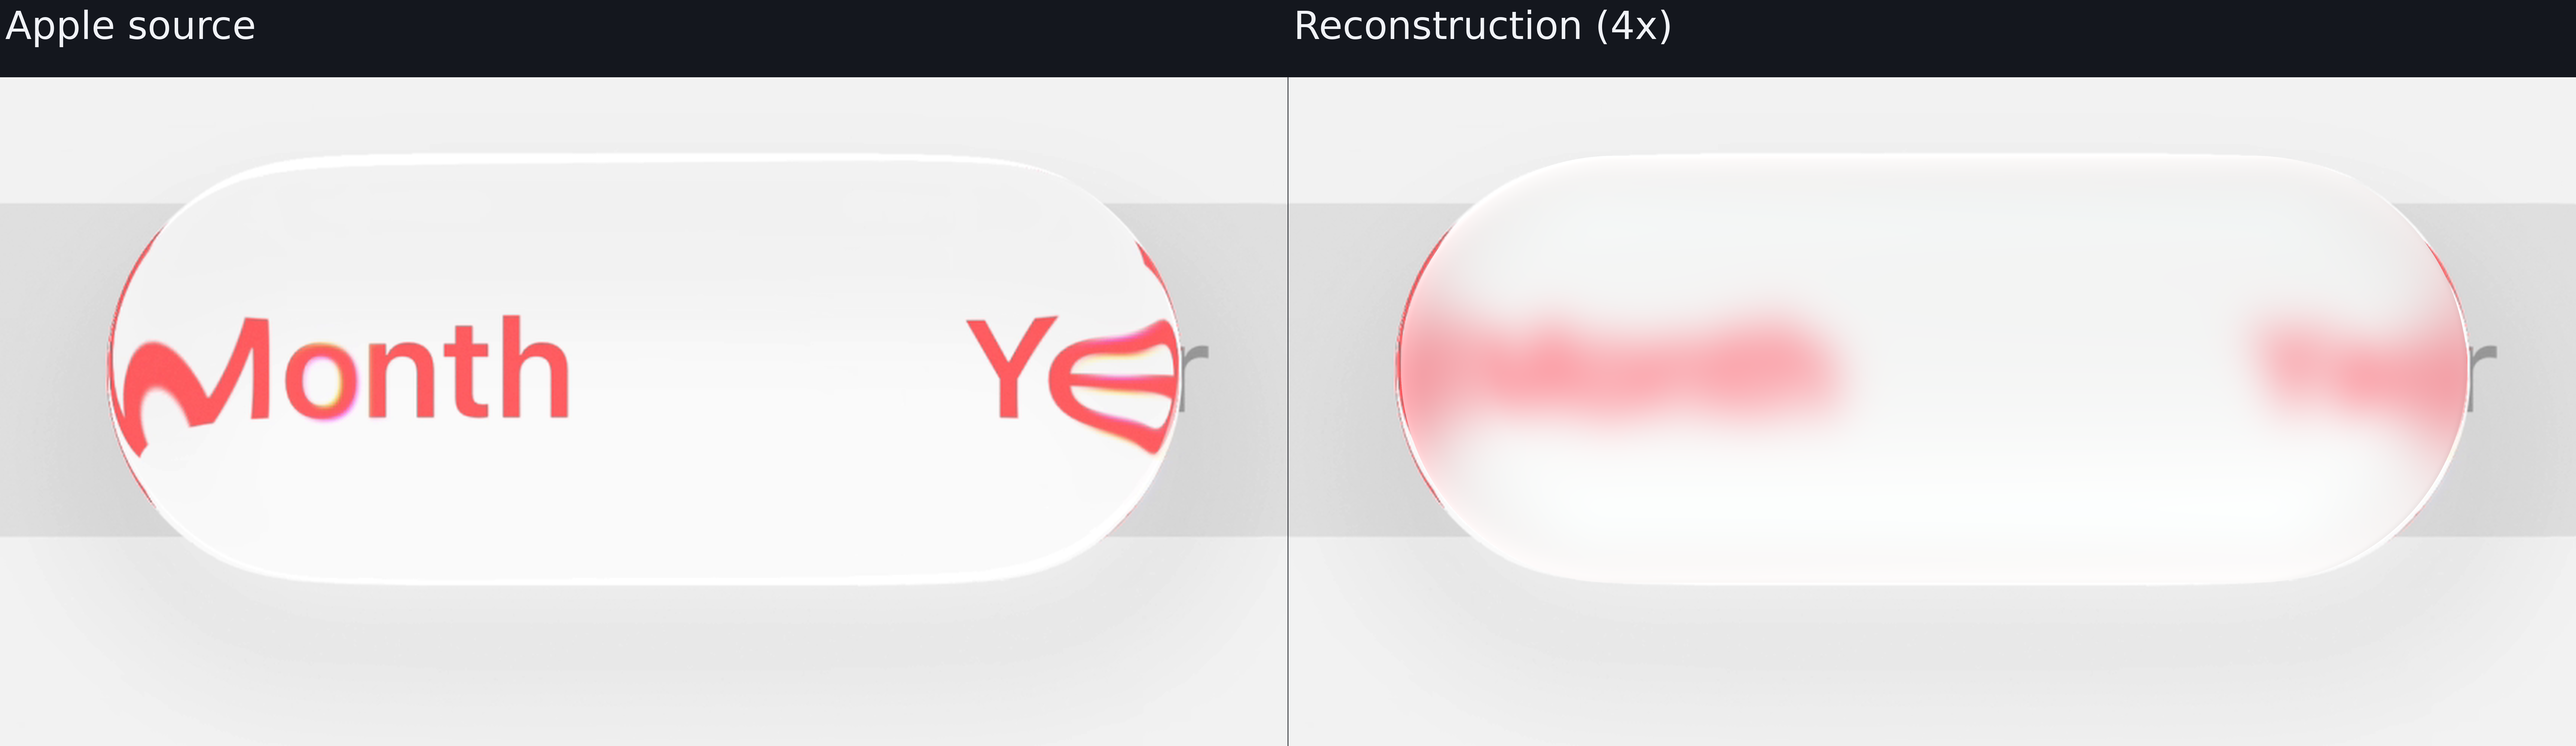
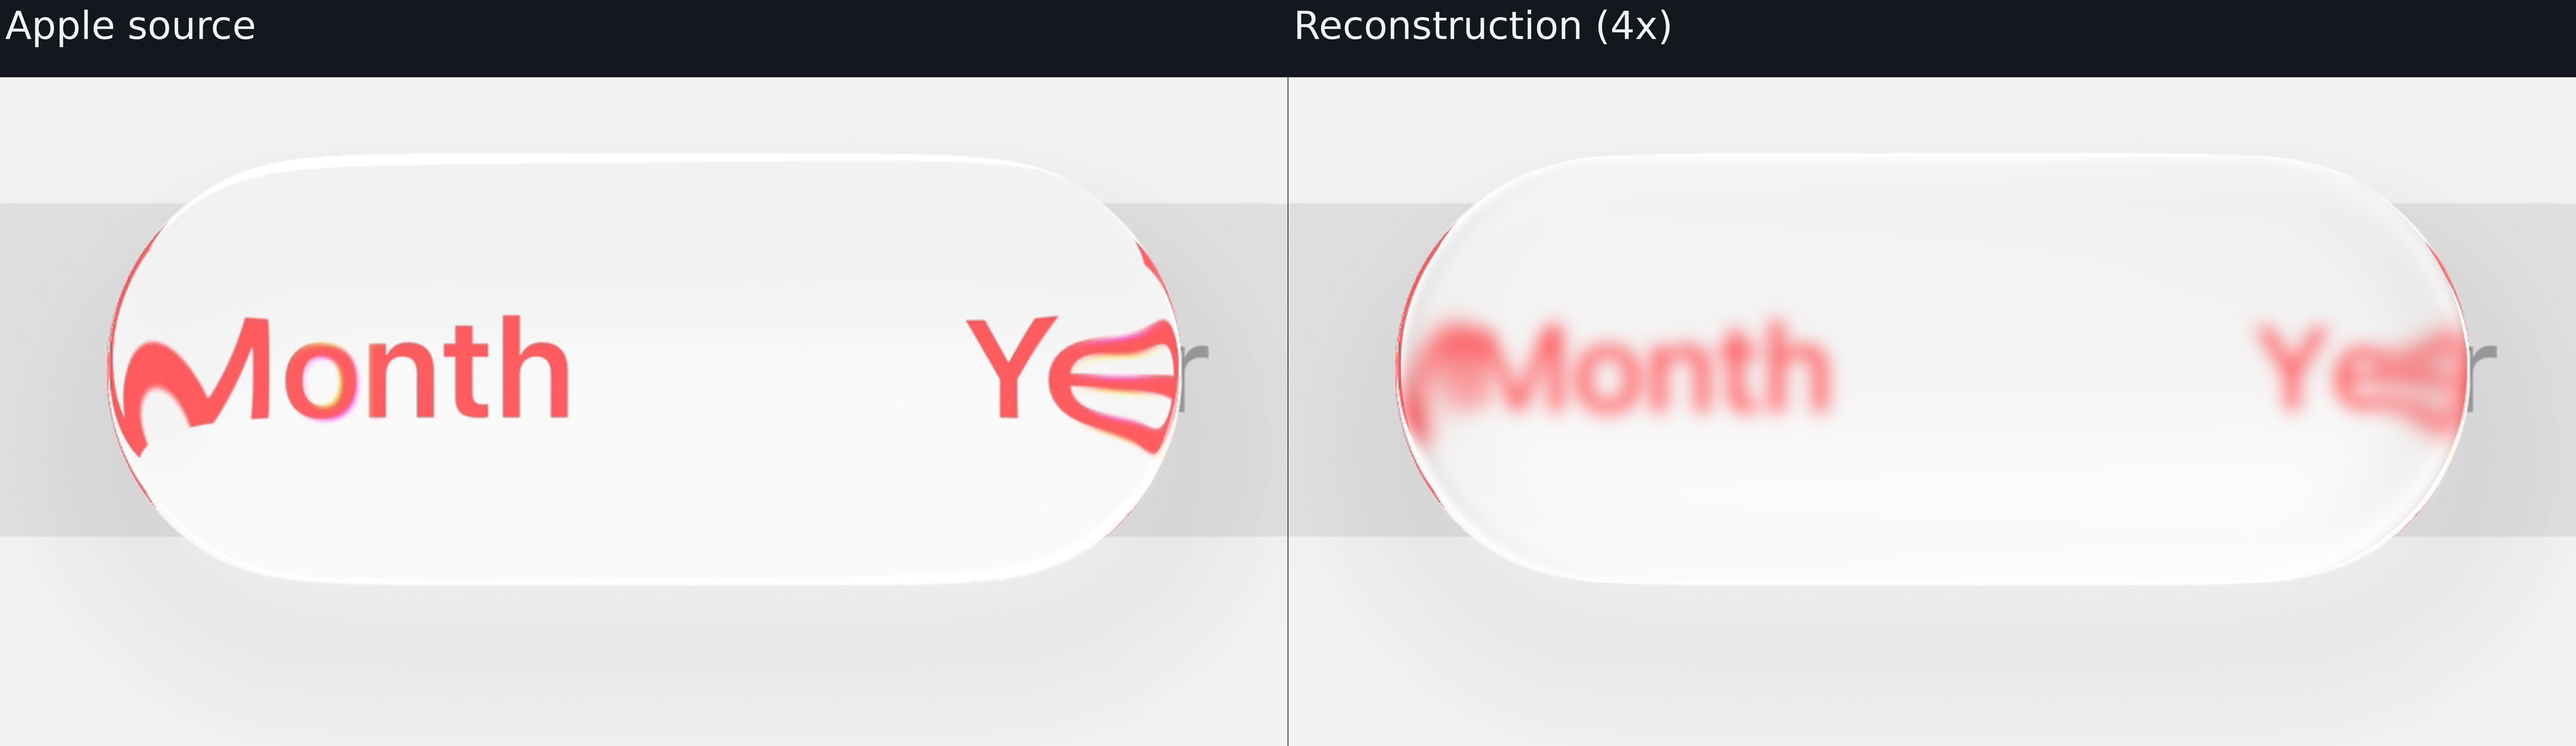
Refine active-segmented-selector pass 06: source versus output-space scattering (#222) [skip ci]

Changed region(s): [[0.5299, 0.4014, 0.7169, 0.5867], [0.8727, 0.4323, 0.9662, 0.5867], [0.9351, 0.4014, 0.9662, 0.4323]]

diff --git a/docs/reconstruction.md b/docs/reconstruction.md
@@ -302,7 +302,7 @@ Each crop below places Apple on the left and snapshot 24 on the right. The gray-
 
 ## Active segmented selector
 
-Single-reference pass 5. Weighted loss 519.015; glass RMSE 23.958 The source is Apple's Details video at 16.4 seconds. The earlier13 source-biased passes are [archived and excluded](experiments/reconstruction/studies/active-segmented-selector/invalid-track-registration/status.json); the corrected source is constrained by both distant track ends. An [intermediate caption proxy](experiments/reconstruction/studies/active-segmented-selector/invalid-lensed-caption-proxy/status.json) is also excluded; current caption geometry uses only independently unoccluded labels. A second observed position at 16.5 seconds is reserved for paired calibration; no paired acceptance is claimed yet.
+Single-reference pass 6. Weighted loss 484.358; glass RMSE 23.592 The source is Apple's Details video at 16.4 seconds. The earlier13 source-biased passes are [archived and excluded](experiments/reconstruction/studies/active-segmented-selector/invalid-track-registration/status.json); the corrected source is constrained by both distant track ends. An [intermediate caption proxy](experiments/reconstruction/studies/active-segmented-selector/invalid-lensed-caption-proxy/status.json) is also excluded; current caption geometry uses only independently unoccluded labels. A second observed position at 16.5 seconds is reserved for paired calibration; no paired acceptance is claimed yet.
 
 [![Active segmented selector: Apple left, reconstruction right](assets/study-active-segmented-selector-progress-a.png)](assets/study-active-segmented-selector-progress-a.png)
 
